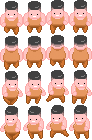
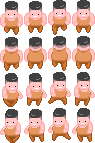
Animation + player collision box

diff --git a/src/scenes/BootScene.js b/src/scenes/BootScene.js
@@ -29,7 +29,8 @@ export class BootScene extends Phaser.Scene{
         // our two characters
         this.load.spritesheet('player', './assets/player.png', {
             frameWidth: 23,
-            frameHeight: 35
+            frameHeight: 35,
+            spacing: 1,
         });
         this.load.spritesheet('npc', './assets/RPG_assets.png', {
             frameWidth: 16,

diff --git a/src/scenes/WorldScene.js b/src/scenes/WorldScene.js
@@ -233,6 +233,10 @@ export class WorldScene extends Phaser.Scene{
             }
         }
 
+        //might change the player's collision box
+        this.player.body.setSize(25, 25, 0, 15);
+        this.player.body.offset.y = 10;
+
         //treetops and stuff above player
         let top = this.map.createStaticLayer('Top', this.tiles, 0, 0);
 
